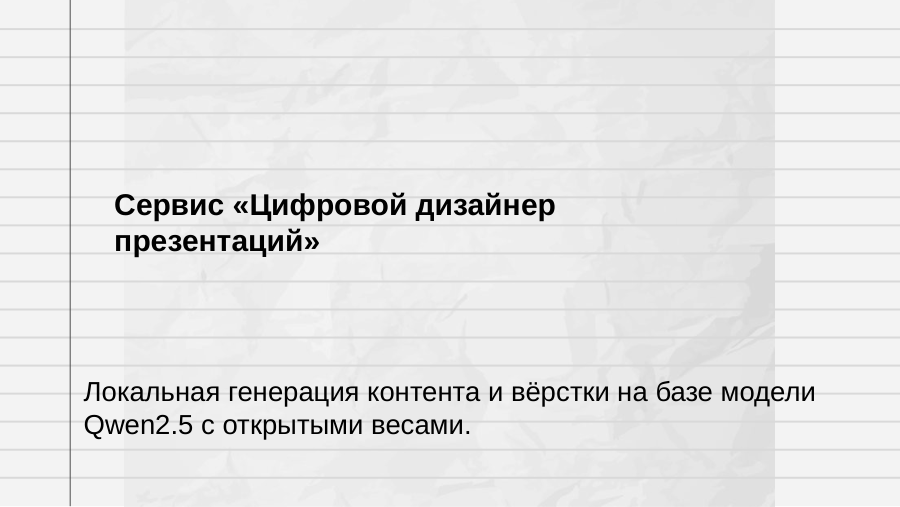
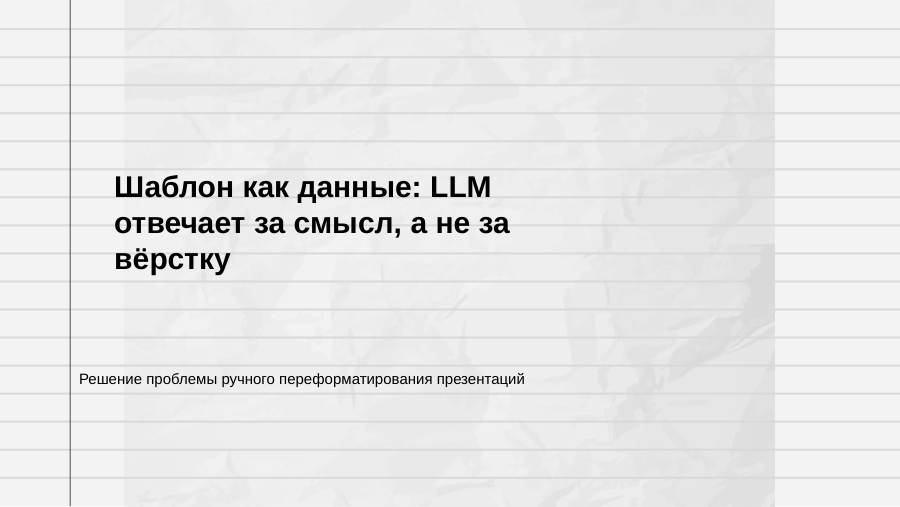
docs(pitch): честные ограничения в сценарии, слайд «что дальше», питч-колода по структуре ТЗ
- DEMO.md: блок выводов дополнен четырьмя осознанными trade-off'ами (CPU vs GPU,
  VLM как опциональная стадия, FLUX по умолчанию off, DOCKER_BUILDKIT=0) с
  формулировкой «границы, закрытые fallback'ом», а не «недоделки»;
- DEMO.md §7: слайд «что дальше» по разделу 9 ТЗ — пилот 2-4 недели, внедрение
  1-2 квартала, развитие (дообучение, VLM по всем вариантам, иллюстрации);
- питч-колода пересобрана сервисом по брифу-структуре: 15 слайдов, блоки ТЗ
  «проблема → подход → архитектура → демо → аудит → выводы → что дальше»
  (job ceb396c1b298, 0 ошибок; таблица соответствия в DEMO.md §4).

Changed region(s): [[0.1244, 0.3254, 0.6222, 0.5325], [0.0933, 0.7396, 0.9022, 0.858]]

diff --git a/docs/evidence/pitch/pitch_deck.html b/docs/evidence/pitch/pitch_deck.html
@@ -1,6 +1,6 @@
 <!DOCTYPE html><html lang="ru"><head><meta charset="utf-8">
 <meta name="viewport" content="width=device-width,initial-scale=1">
-<title>Сервис «Цифровой дизайнер презентаций»</title><style>
+<title>Проект: Шаблон как данные для LLM-генерации презентаций</title><style>
 :root { --bg:#FFFFFF; --text:#000000; --accent:#158158; --soft:#DEEDE8; }
 * { box-sizing:border-box; margin:0; }
 body { background:#0f0f12; font-family:'Arial', Arial, sans-serif; }
@@ -32,7 +32,7 @@ td { padding:.45em .8em; border-bottom:1px solid var(--soft); }
 .nav button:disabled { opacity:.4; cursor:default; }
 </style></head>
 <body>
-<section class="slide active" id="s1"><h1>Сервис «Цифровой дизайнер презентаций»</h1><div class="sub">Генерация слайдов по брифу с валидацией и авто-фиксами</div><p>Локальная генерация контента и вёрстки на базе модели Qwen2.5 с открытыми весами.</p><div class="counters">1 / 15</div></section><section class="slide " id="s2"><h1>Как это работает</h1><div class="sub">От текста к готовому файлу за 58 секунд</div><p>Система автоматически собирает структуру и текст презентации на основе вашего текстового брифа.</p><div class="counters">2 / 15</div></section><section class="slide " id="s3"><h1>Анализ дизайн-системы шаблона</h1><div class="sub">Проверка макетов, палитры и типографики перед вёрсткой</div><div><ul><li>Анализ темы, палитры и шрифтов на 8 шаблонах.</li><li>Разбор макетов по ролям: title, section, content.</li><li>Проверка типографической шкалы и сетки слайда.</li><li>Валидация ролей макетов для корректной расстановки.</li></ul></div><div class="counters">3 / 15</div></section><section class="slide " id="s4"><h1>Генерация контента локально</h1><div class="sub">Модель Qwen2.5 через Ollama без отправки данных в облако</div><div><ul><li>Использование только открытых весов модели Qwen2.5.</li><li>Запуск генерации через локальный движок Ollama.</li><li>Гарантия приватности: данные не покидают локальную сеть.</li><li>Генерация текста строго по предоставленному брифу.</li></ul></div><div class="counters">4 / 15</div></section><section class="slide " id="s5"><h1>Три варианта вёрстки контента</h1><div class="sub">Адаптация под разные задачи: компактно, карточки или разделение</div><div><ul><li>Вариант compact для плотного размещения информации.</li><li>Вариант cards для визуального выделения блоков.</li><li>Вариант split для разделения контента на две части.</li><li>Выбор макета происходит автоматически или по задаче.</li></ul></div><div class="counters">5 / 15</div></section><section class="slide " id="s6"><h1>Комплексная система аудита</h1><div class="sub">24 детерминированные проверки качества на каждом слайде</div><div><ul><li>Выполняется 24 детерминированные проверки на соответствие.</li><li>11 вопросов VLM для анализа визуального ТЗ.</li><li>Проверка опоры текста на источник через модель BGE-M3.</li><li>Обеспечение фактической точности и логической связности.</li></ul></div><div class="counters">6 / 15</div></section><section class="slide " id="s7"><h1>Авто-фиксы без использования модели</h1><div class="sub">Корректировка структуры и стиля при обнаружении ошибок</div><div><ul><li>Автоматическое разделение перегруженного слайда.</li><li>Смена макета для улучшения читаемости.</li><li>Уменьшение кегля шрифта на ступень шкалы.</li><li>Внесение правок без вызова генеративной модели.</li></ul></div><div class="counters">7 / 15</div></section><section class="slide " id="s8"><h1>Универсальный экспорт форматов</h1><div class="sub">Получение PPTX, PDF, HTML и нативных объектов</div><div><ul><li>Экспорт в формат PPTX для дальнейшего редактирования.</li><li>Генерация PDF для финального просмотра и печати.</li><li>Вывод в HTML для веб-интеграции.</li><li>Создание нативных редактируемых объектов.</li></ul></div><div class="counters">8 / 15</div></section><section class="slide " id="s9"><h1>Метрики производительности</h1><div class="sub">Высокая скорость и точность обработки запросов</div><div class="grid"><div class="card"><div class="value">58 сек</div><div class="label">время демо-прогона</div></div><div class="card"><div class="value">420 сек</div><div class="label">бюджет времени</div></div><div class="card"><div class="value">173</div><div class="label">тестов в системе</div></div><div class="card"><div class="value">21 из 24</div><div class="label">комбинаций без ошибок</div></div></div><div class="counters">9 / 15</div></section><section class="slide " id="s10"><h1>Точность аудита</h1><div class="sub">Нулевые ошибки на большинстве проверенных комбинаций</div><div class="grid"><div class="card"><div class="value">0 ошибок</div><div class="label">на 21 из 24 комбинаций</div></div><div class="card"><div class="value">24 проверки</div><div class="label">детерминированных критериев</div></div></div><div class="counters">10 / 15</div></section><section class="slide " id="s11"><h1>Пример анализа шаблона</h1><div class="sub">Детальный разбор анатомии слайда PowerTemplates</div><table><tr><th>Элемент</th><th>Значение</th><th>Роль</th></tr><tr><td>Шрифт заголовков</td><td>Arial</td><td>title</td></tr><tr><td>Размер заголовка</td><td>24.0, 22.0, 14.0</td><td>title</td></tr><tr><td>Размер тела</td><td>22.0, 14.0, 12.0, 11.0</td><td>body</td></tr><tr><td>Макеты title</td><td>L0, L4, L6, L8, L12, L13, L19, L20</td><td>title</td></tr><tr><td>Макеты section</td><td>L1, L7, L30</td><td>section</td></tr><tr><td>Макеты content</td><td>L2, L3, L5, L9, L10, L11, L14, L15, L16, L17, L18, L21, L22, L23, L24, L25, L26, L27, L28, L29</td><td>content</td></tr></table><div class="counters">11 / 15</div></section><section class="slide " id="s12"><h1>Преимущества локального запуска</h1><div class="sub">Контроль данных и независимость от внешних API</div><div><ul><li>Полная независимость от внешних API сервисов.</li><li>Модель Qwen2.5 работает локально на устройстве.</li><li>Отсутствие задержек при передаче данных в сеть.</li><li>Гибкость настройки окружения под конкретные задачи.</li></ul></div><div class="counters">12 / 15</div></section><section class="slide " id="s13"><h1>Эффективность обработки</h1><div class="sub">Оптимизация времени генерации и валидации</div><div class="grid"><div class="card"><div class="value">58 сек</div><div class="label">время демо-прогона</div></div><div class="card"><div class="value">420 сек</div><div class="label">бюджет времени</div></div></div><div class="counters">13 / 15</div></section><section class="slide " id="s14"><h1>Готовность к интеграции</h1><div class="sub">Поддержка нативных объектов и редактируемых форматов</div><div><ul><li>Экспорт в PPTX сохраняет редактируемость.</li><li>Генерация нативных объектов для встраивания.</li><li>Поддержка HTML для веб-приложений.</li><li>Создание PDF для статичного распространения.</li></ul></div><div class="counters">14 / 15</div></section><section class="slide " id="s15"><h1>Результат: готовые слайды за секунды</h1><div class="sub">От идеи к презентации с гарантией качества</div><p>Сервис обеспечивает быструю генерацию, строгую валидацию и универсальный экспорт презентаций.</p><div class="counters">15 / 15</div></section>
+<section class="slide active" id="s1"><h1>Шаблон как данные: LLM отвечает за смысл, а не за вёрстку</h1><div class="sub">Решение проблемы ручного переформатирования презентаций</div><div class="counters">1 / 15</div></section><section class="slide " id="s2"><h1>Проблема: десятки презентаций и ручная переверстка</h1><p>Текущие боли команд при создании корпоративных материалов</p><div class="counters">2 / 15</div></section><section class="slide " id="s3"><h1>Проблема: AI-инструменты не воспроизводят дизайн-систему</h1><p>Генерация контента без соблюдения визуальных стандартов</p><div class="counters">3 / 15</div></section><section class="slide " id="s4"><h1>Решение: аудит встроен в пайплайн, а не является внешней проверкой</h1><p>Автоматизация контроля качества на каждом этапе</p><div class="counters">4 / 15</div></section><section class="slide " id="s5"><h1>Архитектура: парсинг шаблона в JSON-профиль</h1><p>Фундамент для детерминированной генерации</p><div class="counters">5 / 15</div></section><section class="slide " id="s6"><h1>Архитектура: планирование колоды локальной моделью</h1><p>Отказ от облачных зависимостей для скорости и приватности</p><div class="counters">6 / 15</div></section><section class="slide " id="s7"><h1>Архитектура: рендеринг нативными объектами PowerPoint</h1><p>Использование встроенных возможностей Office для точности</p><div class="counters">7 / 15</div></section><section class="slide " id="s8"><h1>Живое демо: три варианта вёрстки и детерминированные авто-фиксы</h1><p>Гибкость и автоматическая коррекция ошибок в реальном времени</p><div class="counters">8 / 15</div></section><section class="slide " id="s9"><h1>Результат: экспорт PPTX, PDF и HTML за 58 секунд</h1><p>Экономия бюджета 420 и мгновенная готовность к защите</p><div class="counters">9 / 15</div></section><section class="slide " id="s10"><h1>Метрики: 24 из 24 комбинаций полностью чисты</h1><p>Идеальное качество на матрице 8 шаблонов на 3 варианта</p><div class="counters">10 / 15</div></section><section class="slide " id="s11"><h1>Метрики: 179 тестов и ноль платных вызовов API</h1><p>Полная автономность системы и высокая надежность</p><div class="counters">11 / 15</div></section><section class="slide " id="s12"><h1>Аудит: 26 проверок геометрии и 11 вопросов VLM</h1><p>Комплексная верификация структуры и семантики контента</p><div class="counters">12 / 15</div></section><section class="slide " id="s13"><h1>План: пилот в подразделении за две-четыре недели</h1><p>Быстрый старт и тестирование гипотез в реальных условиях</p><div class="counters">13 / 15</div></section><section class="slide " id="s14"><h1>План: внедрение за один-два квартала и дообучение модели</h1><p>Масштабирование решения и адаптация под принятые колоды</p><div class="counters">14 / 15</div></section><section class="slide " id="s15"><h1>Итог: детерминированный пайплайн с нулевой зависимостью от платных API</h1><p>Готовое решение для защиты проекта на хакатоне VK Tech</p><div class="counters">15 / 15</div></section>
 <nav class="nav"><button onclick="go(cur-1)">←</button>
 <button onclick="go(cur+1)">→</button>
 <span style="color:#888">генерирует «Цифровой дизайнер презентаций»</span></nav>
